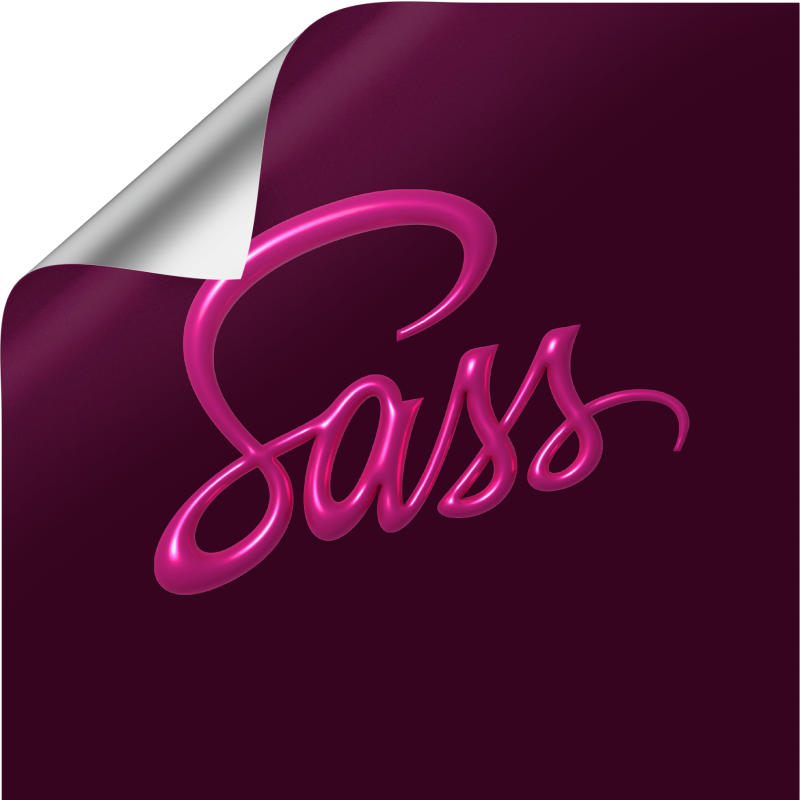
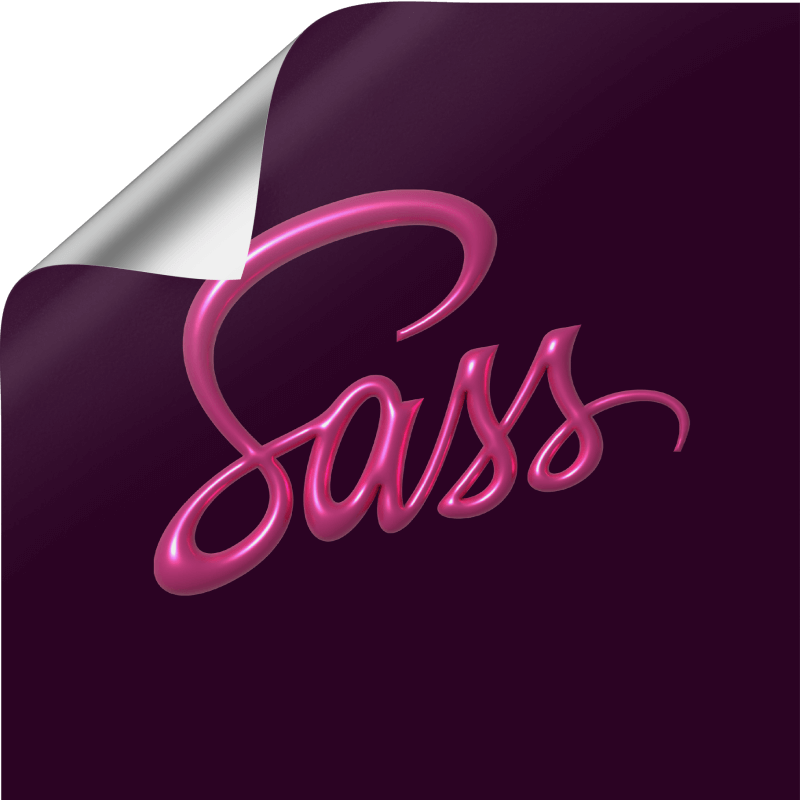
Add

diff --git a/works/2022/revitalizing-sass.md b/works/2022/revitalizing-sass.md
@@ -15,22 +15,28 @@ technology: 'Illustrator, Photoshop, Git'
 excerpt: As a long-time admirer and user of the renowned Sass CSS preprocessor, which has empowered me to create my own CSS framework, Uniform CSS, I sought to contribute my design expertise to the open-source community by carefully revitalizing the iconic logo. I embraced the essence of the original design while introducing subtle yet impactful refinements.
 
 workImages:
-- url: 'revitalizing-sass-03.png'
+- url: 'revitalizing-sass-03.jpg'
   alt: ''
   col: 1
-- url: 'revitalizing-sass-04.png'
+- url: 'revitalizing-sass-04.jpg'
   alt: ''
   col: 1
-- url: 'revitalizing-sass-05.png'
+- url: 'revitalizing-sass-05.jpg'
   alt: ''
   col: 1
-- url: 'revitalizing-sass-06.png'
+- url: 'revitalizing-sass-06.jpg'
   alt: ''
   col: 1
-- url: 'revitalizing-sass-01.png'
+- url: 'revitalizing-sass-07.jpg'
+  alt: ''
+  col: 1
+- url: 'revitalizing-sass-08.jpg'
+  alt: ''
+  col: 1
+- url: 'revitalizing-sass-01.jpg'
   alt: 'Before'
   col: 1
-- url: 'revitalizing-sass-02.png'
+- url: 'revitalizing-sass-02.jpg'
   alt: 'After'
   col: 1
 ---
